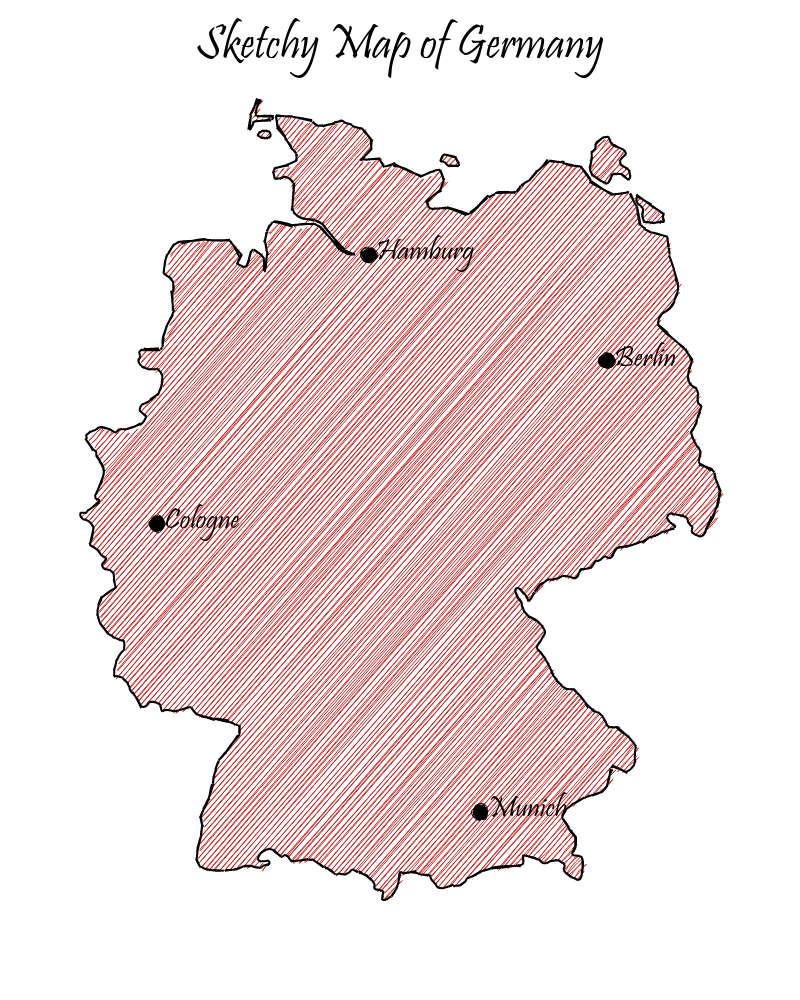
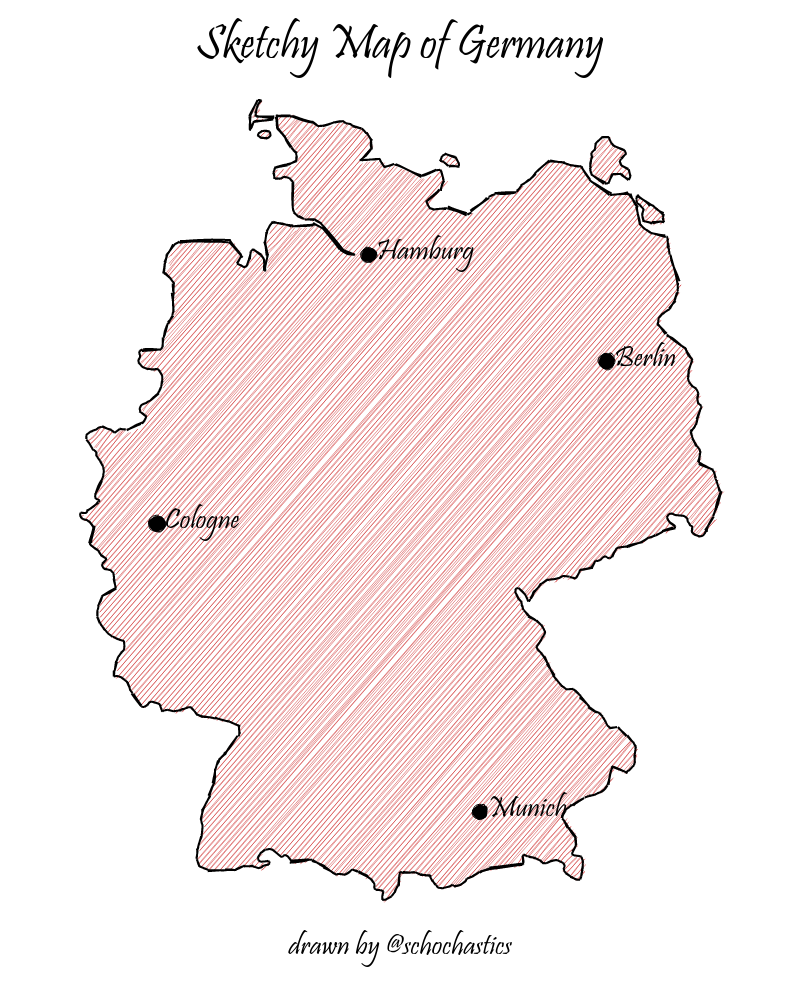
code updated in example

Changed region(s): [[0.0938, 0.093, 0.9062, 0.899], [0.3438, 0.93, 0.625, 0.961]]

diff --git a/README.md b/README.md
@@ -85,10 +85,10 @@ cities$label <- cities$name
 cities$label_pos <- "e"
 
 roughsf::roughsf(list(ger, cities),
-  title = "Handdrawn Map of Germany", caption = "drawn by @schochastics",
-  title_font = "48px Pristina", font = "30px Pristina", caption_font = "30px Pristina",
-  roughness = 1, bowing = 1, simplification = 1,
-  width = 800, height = 1000, 
+                 title = "Sketchy Map of Germany", caption = "drawn by @schochastics",
+                 title_font = "48px Pristina", font = "30px Pristina", caption_font = "30px Pristina",
+                 roughness = 1, bowing = 1, simplification = 1,
+                 width = 800, height = 1000, 
 )
 ```
 
